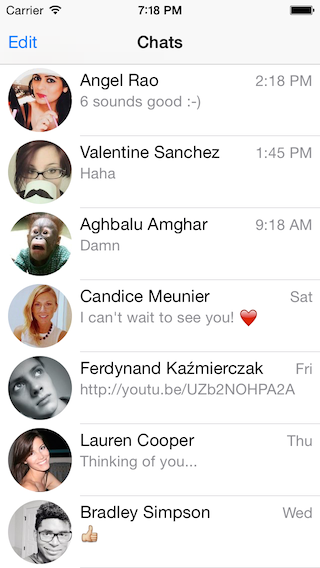
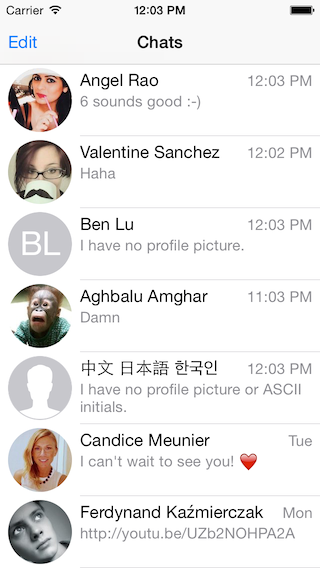
Update to Xcode6-Beta6; fix initials & blank pic

diff --git a/Chats/Chats/ChatsViewController.swift b/Chats/Chats/ChatsViewController.swift
@@ -3,7 +3,7 @@ import UIKit
 class ChatsViewController: UITableViewController {
     var chats: [Chat] { return account.chats }
 
-    convenience init() {
+    convenience override init() {
         self.init(style: .Plain)
         title = "Chats"
     }
@@ -13,28 +13,28 @@ class ChatsViewController: UITableViewController {
 
         let minute: NSTimeInterval = 60, hour = minute * 60, day = hour * 24
         account.chats = [
-            Chat(user: User(ID: 2, name: "Angel Rao"), lastMessageText: "6 sounds good :-)", lastMessageSentDate: NSDate()),
-            Chat(user: User(ID: 3, name: "Valentine Sanchez"), lastMessageText: "Haha", lastMessageSentDate: NSDate(timeIntervalSinceNow: -minute)),
-            Chat(user: User(ID: 23, name: "Ben Lu"), lastMessageText: "I have no profile picture.", lastMessageSentDate: NSDate()),
-            Chat(user: User(ID: 4, name: "Aghbalu Amghar"), lastMessageText: "Damn", lastMessageSentDate: NSDate(timeIntervalSinceNow: -hour*13)),
-            Chat(user: User(ID: 22, name: "中文 日本語 한국인"), lastMessageText: "I have no profile picture or ASCII initials.", lastMessageSentDate: NSDate()),
-            Chat(user: User(ID: 5, name: "Candice Meunier"), lastMessageText: "I can't wait to see you! ❤", lastMessageSentDate: NSDate(timeIntervalSinceNow: -hour*34)),
-            Chat(user: User(ID: 6, name: "Ferdynand Kaźmierczak"), lastMessageText: "http://youtu.be/UZb2NOHPA2A", lastMessageSentDate: NSDate(timeIntervalSinceNow: -day*2-1)),
-            Chat(user: User(ID: 7, name: "Lauren Cooper"), lastMessageText: "Thinking of you...", lastMessageSentDate: NSDate(timeIntervalSinceNow: -day*3)),
-            Chat(user: User(ID: 8, name: "Bradley Simpson"), lastMessageText: "👍", lastMessageSentDate: NSDate(timeIntervalSinceNow: -day*4)),
-            Chat(user: User(ID: 9, name: "Clotilde Thomas"), lastMessageText: "Sounds good!", lastMessageSentDate: NSDate(timeIntervalSinceNow: -day*5)),
-            Chat(user: User(ID: 10, name: "Tania Caramitru"), lastMessageText: "Cool. Thanks!", lastMessageSentDate: NSDate(timeIntervalSinceNow: -day*6)),
-            Chat(user: User(ID: 11, name: "Ileana Mazilu"), lastMessageText: "Hey, what are you up to?", lastMessageSentDate: NSDate(timeIntervalSinceNow: -day*7)),
-            Chat(user: User(ID: 12, name: "Asja Zuhrić"), lastMessageText: "Drinks tonight?", lastMessageSentDate: NSDate(timeIntervalSinceNow: -day*8)),
-            Chat(user: User(ID: 13, name: "Sarah Lam"), lastMessageText: "Are you going to Blues on the Green tonight?", lastMessageSentDate: NSDate(timeIntervalSinceNow: -day*9)),
-            Chat(user: User(ID: 14, name: "Ishan Sarin"), lastMessageText: "Thanks for open sourcing Chats.", lastMessageSentDate: NSDate(timeIntervalSinceNow: -day*10)),
-            Chat(user: User(ID: 15, name: "Stella Vosper"), lastMessageText: "Those who dance are considered insane by those who can't hear the music.", lastMessageSentDate: NSDate(timeIntervalSinceNow: -day*11)),
-            Chat(user: User(ID: 16, name: "Georgeta Mihăileanu"), lastMessageText: "Hey, what are you up to?", lastMessageSentDate: NSDate(timeIntervalSinceNow: -day*11)),
-            Chat(user: User(ID: 17, name: "Alice Adams"), lastMessageText: "Hey, want to hang out tonight?", lastMessageSentDate: NSDate(timeIntervalSinceNow: -day*11)),
-            Chat(user: User(ID: 18, name: "Gerard Gómez"), lastMessageText: "Haha. Hell yeah! No problem, bro!", lastMessageSentDate: NSDate(timeIntervalSinceNow: -day*11)),
-            Chat(user: User(ID: 19, name: "Melinda Osváth"), lastMessageText: "I am excellent!!! I was thinking recently that you are a very inspirational person.", lastMessageSentDate: NSDate(timeIntervalSinceNow: -day*11)),
-            Chat(user: User(ID: 20, name: "Saanvi Sarin"), lastMessageText: "See you soon!", lastMessageSentDate: NSDate(timeIntervalSinceNow: -day*11)),
-            Chat(user: User(ID: 21, name: "Jade Roger"), lastMessageText: "😊", lastMessageSentDate: NSDate(timeIntervalSinceNow: -day*11))
+            Chat(user: User(ID: 2, firstName: "Angel", lastName: "Rao"), lastMessageText: "6 sounds good :-)", lastMessageSentDate: NSDate()),
+            Chat(user: User(ID: 3, firstName: "Valentine", lastName: "Sanchez"), lastMessageText: "Haha", lastMessageSentDate: NSDate(timeIntervalSinceNow: -minute)),
+            Chat(user: User(ID: 23, firstName: "Ben", lastName: "Lu"), lastMessageText: "I have no profile picture.", lastMessageSentDate: NSDate()),
+            Chat(user: User(ID: 4, firstName: "Aghbalu", lastName: "Amghar"), lastMessageText: "Damn", lastMessageSentDate: NSDate(timeIntervalSinceNow: -hour*13)),
+            Chat(user: User(ID: 22, firstName: "中文 日本語", lastName: "한국인"), lastMessageText: "I have no profile picture or extended ASCII initials.", lastMessageSentDate: NSDate()),
+            Chat(user: User(ID: 5, firstName: "Candice", lastName: "Meunier"), lastMessageText: "I can't wait to see you! ❤", lastMessageSentDate: NSDate(timeIntervalSinceNow: -hour*34)),
+            Chat(user: User(ID: 6, firstName: "Ferdynand", lastName: "Kaźmierczak"), lastMessageText: "http://youtu.be/UZb2NOHPA2A", lastMessageSentDate: NSDate(timeIntervalSinceNow: -day*2-1)),
+            Chat(user: User(ID: 7, firstName: "Lauren", lastName: "Cooper"), lastMessageText: "Thinking of you...", lastMessageSentDate: NSDate(timeIntervalSinceNow: -day*3)),
+            Chat(user: User(ID: 8, firstName: "Bradley", lastName: "Simpson"), lastMessageText: "👍", lastMessageSentDate: NSDate(timeIntervalSinceNow: -day*4)),
+            Chat(user: User(ID: 9, firstName: "Clotilde", lastName: "Thomas"), lastMessageText: "Sounds good!", lastMessageSentDate: NSDate(timeIntervalSinceNow: -day*5)),
+            Chat(user: User(ID: 10, firstName: "Tania", lastName: "Caramitru"), lastMessageText: "Cool. Thanks!", lastMessageSentDate: NSDate(timeIntervalSinceNow: -day*6)),
+            Chat(user: User(ID: 11, firstName: "Ileana", lastName: "Mazilu"), lastMessageText: "Hey, what are you up to?", lastMessageSentDate: NSDate(timeIntervalSinceNow: -day*7)),
+            Chat(user: User(ID: 12, firstName: "Asja", lastName: "Zuhrić"), lastMessageText: "Drinks tonight?", lastMessageSentDate: NSDate(timeIntervalSinceNow: -day*8)),
+            Chat(user: User(ID: 13, firstName: "Sarah", lastName: "Lam"), lastMessageText: "Are you going to Blues on the Green tonight?", lastMessageSentDate: NSDate(timeIntervalSinceNow: -day*9)),
+            Chat(user: User(ID: 14, firstName: "Ishan", lastName: "Sarin"), lastMessageText: "Thanks for open sourcing Chats.", lastMessageSentDate: NSDate(timeIntervalSinceNow: -day*10)),
+            Chat(user: User(ID: 15, firstName: "Stella", lastName: "Vosper"), lastMessageText: "Those who dance are considered insane by those who can't hear the music.", lastMessageSentDate: NSDate(timeIntervalSinceNow: -day*11)),
+            Chat(user: User(ID: 16, firstName: "Georgeta", lastName: "Mihăileanu"), lastMessageText: "Hey, what are you up to?", lastMessageSentDate: NSDate(timeIntervalSinceNow: -day*11)),
+            Chat(user: User(ID: 17, firstName: "Alice", lastName: "Adams"), lastMessageText: "Hey, want to hang out tonight?", lastMessageSentDate: NSDate(timeIntervalSinceNow: -day*11)),
+            Chat(user: User(ID: 18, firstName: "Gerard", lastName: "Gómez"), lastMessageText: "Haha. Hell yeah! No problem, bro!", lastMessageSentDate: NSDate(timeIntervalSinceNow: -day*11)),
+            Chat(user: User(ID: 19, firstName: "Melinda", lastName: "Osváth"), lastMessageText: "I am excellent!!! I was thinking recently that you are a very inspirational person.", lastMessageSentDate: NSDate(timeIntervalSinceNow: -day*11)),
+            Chat(user: User(ID: 20, firstName: "Saanvi", lastName: "Sarin"), lastMessageText: "See you soon!", lastMessageSentDate: NSDate(timeIntervalSinceNow: -day*11)),
+            Chat(user: User(ID: 21, firstName: "Jade", lastName: "Roger"), lastMessageText: "😊", lastMessageSentDate: NSDate(timeIntervalSinceNow: -day*11))
         ]
 
         navigationItem.leftBarButtonItem = editButtonItem() // TODO: KVO

diff --git a/Chats/Chats/ChatViewController.swift b/Chats/Chats/ChatViewController.swift
@@ -16,7 +16,7 @@ class ChatViewController: UIViewController, UITableViewDataSource, UITableViewDe
 
     override var inputAccessoryView: UIView! {
     get {
-        if !toolBar {
+        if toolBar == nil {
             toolBar = UIToolbar(frame: CGRectMake(0, 0, 0, toolBarMinHeight-0.5))
 
             textView = InputTextView(frame: CGRectZero)
@@ -59,6 +59,10 @@ class ChatViewController: UIViewController, UITableViewDataSource, UITableViewDe
         self.chat = chat
         super.init(nibName: nil, bundle: nil)
         title = chat.user.name
+    }
+
+    required init(coder aDecoder: NSCoder) {
+        fatalError("init(coder:) has not been implemented")
     }
 
     override func canBecomeFirstResponder() -> Bool {
@@ -182,21 +186,6 @@ class ChatViewController: UIViewController, UITableViewDataSource, UITableViewDe
         }
     }
 
-    // #iOS7 - not needed for #iOS8
-    func tableView(tableView: UITableView!, heightForRowAtIndexPath indexPath: NSIndexPath!) -> CGFloat {
-        if indexPath.row == 0 {
-            return 31
-        } else {
-            let message = chat.loadedMessages[indexPath.section][indexPath.row-1]
-            let height = (message.text as NSString).boundingRectWithSize(CGSize(width: 218, height: CGFloat.max), options: .UsesLineFragmentOrigin, attributes: [NSFontAttributeName: UIFont.systemFontOfSize(messageFontSize)], context: nil).height
-            #if arch(x86_64) || arch(arm64)
-                return ceil(height) + 24
-            #else
-                return CGFloat(ceilf(height.native) + 24)
-            #endif
-        }
-    }
-
     // Reserve row selection #CopyMessage
     func tableView(tableView: UITableView!, willSelectRowAtIndexPath indexPath: NSIndexPath!) -> NSIndexPath! {
         return nil
@@ -208,7 +197,7 @@ class ChatViewController: UIViewController, UITableViewDataSource, UITableViewDe
     }
 
     func keyboardWillShow(notification: NSNotification) {
-        let userInfo = notification.userInfo
+        let userInfo = notification.userInfo as NSDictionary!
         let frameNew = (userInfo[UIKeyboardFrameEndUserInfoKey] as NSValue).CGRectValue()
         let insetNewBottom = tableView.convertRect(frameNew, fromView: nil).height
         let insetOld = tableView.contentInset
@@ -238,7 +227,7 @@ class ChatViewController: UIViewController, UITableViewDataSource, UITableViewDe
     }
 
     func keyboardDidShow(notification: NSNotification) {
-        let userInfo = notification.userInfo
+        let userInfo = notification.userInfo as NSDictionary!
         let frameNew = (userInfo[UIKeyboardFrameEndUserInfoKey] as NSValue).CGRectValue()
         let insetNewBottom = tableView.convertRect(frameNew, fromView: nil).height
 
@@ -247,7 +236,7 @@ class ChatViewController: UIViewController, UITableViewDataSource, UITableViewDe
         tableView.contentInset.bottom = insetNewBottom
         tableView.scrollIndicatorInsets.bottom = insetNewBottom
         // Prevents jump after keyboard dismissal
-        if (self.tableView.tracking || self.tableView.decelerating) {
+        if self.tableView.tracking || self.tableView.decelerating {
             tableView.contentOffset.y = contentOffsetY
         }
     }
@@ -271,7 +260,7 @@ class ChatViewController: UIViewController, UITableViewDataSource, UITableViewDe
         textView.resignFirstResponder()
         textView.becomeFirstResponder()
 
-        chat.loadedMessages += [Message(incoming: false, text: textView.text, sentDate: NSDate.date())]
+        chat.loadedMessages.append([Message(incoming: false, text: textView.text, sentDate: NSDate.date())])
         textView.text = nil
         updateTextViewHeight()
         sendButton.enabled = false
@@ -301,7 +290,7 @@ class ChatViewController: UIViewController, UITableViewDataSource, UITableViewDe
         let twoTaps = (gestureRecognizer.numberOfTapsRequired == 2)
         let doubleTap = (twoTaps && gestureRecognizer.state == .Ended)
         let longPress = (!twoTaps && gestureRecognizer.state == .Began)
-        if (doubleTap || longPress) {
+        if doubleTap || longPress {
             let pressedIndexPath = tableView.indexPathForRowAtPoint(gestureRecognizer.locationInView(tableView))
             tableView.selectRowAtIndexPath(pressedIndexPath, animated: false, scrollPosition: .None)
 
@@ -335,7 +324,7 @@ func createMessageSoundOutgoing() -> SystemSoundID {
 // Only show "Copy" when editing `textView` #CopyMessage
 class InputTextView: UITextView {
     override func canPerformAction(action: Selector, withSender sender: AnyObject!) -> Bool {
-        if (delegate as ChatViewController).tableView.indexPathForSelectedRow() {
+        if (delegate as ChatViewController).tableView.indexPathForSelectedRow() != nil {
             return action == "messageCopyTextAction:"
         } else {
             return super.canPerformAction(action, withSender: sender)

diff --git a/Chats/Chats/ChatCell.swift b/Chats/Chats/ChatCell.swift
@@ -10,10 +10,10 @@ class ChatCell: UITableViewCell {
     let lastMessageSentDateLabel: UILabel
     let userNameInitialsLabel: UILabel
     
-    init(style: UITableViewCellStyle, reuseIdentifier: String) {
+    override init(style: UITableViewCellStyle, reuseIdentifier: String) {
         let pictureSize: CGFloat = 64
         userPictureImageView = UIImageView(frame: CGRect(x: 8, y: (chatCellHeight-pictureSize)/2, width: pictureSize, height: pictureSize))
-        userPictureImageView.backgroundColor = UIColor(white: 238/255, alpha: 1)
+        userPictureImageView.backgroundColor = UIColor(red: 199/255.0, green: 199/255.0, blue: 204/255.0, alpha: 1)
         userPictureImageView.layer.cornerRadius = pictureSize/2
         userPictureImageView.layer.masksToBounds = true
 
@@ -34,9 +34,9 @@ class ChatCell: UITableViewCell {
         lastMessageSentDateLabel.textColor = lastMessageTextLabel.textColor
 
         userNameInitialsLabel = UILabel(frame: CGRectZero)
-        userNameInitialsLabel.textColor = UIColor(white: 128/255, alpha: 1)
-        userNameInitialsLabel.font = UIFont.systemFontOfSize(22)
+        userNameInitialsLabel.font = UIFont.systemFontOfSize(33)
         userNameInitialsLabel.textAlignment = .Center
+        userNameInitialsLabel.textColor = UIColor.whiteColor()
 
         super.init(style: style, reuseIdentifier: reuseIdentifier)
         contentView.addSubview(userPictureImageView)
@@ -61,39 +61,31 @@ class ChatCell: UITableViewCell {
         contentView.addConstraint(NSLayoutConstraint(item: lastMessageSentDateLabel, attribute: .Baseline, relatedBy: .Equal, toItem: userNameLabel, attribute: .Baseline, multiplier: 1, constant: 0))
         
         userNameInitialsLabel.setTranslatesAutoresizingMaskIntoConstraints(false)
-        userPictureImageView.addConstraint(NSLayoutConstraint(item: userNameInitialsLabel, attribute: .Left, relatedBy: .Equal, toItem: userPictureImageView, attribute: .Left, multiplier: 1, constant: 0))
-        userPictureImageView.addConstraint(NSLayoutConstraint(item: userNameInitialsLabel, attribute: .Right, relatedBy: .Equal, toItem: userPictureImageView, attribute: .Right, multiplier: 1, constant: 0))
-        userPictureImageView.addConstraint(NSLayoutConstraint(item: userNameInitialsLabel, attribute: .Top, relatedBy: .Equal, toItem: userPictureImageView, attribute: .Top, multiplier: 1, constant: 0))
-        userPictureImageView.addConstraint(NSLayoutConstraint(item: userNameInitialsLabel, attribute: .Bottom, relatedBy: .Equal, toItem: userPictureImageView, attribute: .Bottom, multiplier: 1, constant: 0))
+        userPictureImageView.addConstraint(NSLayoutConstraint(item: userNameInitialsLabel, attribute: .CenterX, relatedBy: .Equal, toItem: userPictureImageView, attribute: .CenterX, multiplier: 1, constant: 0))
+        userPictureImageView.addConstraint(NSLayoutConstraint(item: userNameInitialsLabel, attribute: .CenterY, relatedBy: .Equal, toItem: userPictureImageView, attribute: .CenterY, multiplier: 1, constant: -1))
+    }
 
+    required init(coder aDecoder: NSCoder) {
+        fatalError("init(coder:) has not been implemented")
     }
 
     func configureWithChat(chat: Chat) {
-        userPictureImageView.image = UIImage(named: chat.user.pictureName())
-        if !userPictureImageView.image {
-            if chat.user.name.initials.lengthOfBytesUsingEncoding(NSASCIIStringEncoding) == 0 {
-                userPictureImageView.image = UIImage(named: "ProfilePicture")
-                userNameInitialsLabel.hidden = true
-            } else {
-                userNameInitialsLabel.text = chat.user.name.initials
+        let user = chat.user
+        userPictureImageView.image = UIImage(named: user.pictureName())
+        if userPictureImageView.image == nil {
+            let initials = user.initials
+            if initials != nil {
+                userNameInitialsLabel.text = initials
                 userNameInitialsLabel.hidden = false
+            } else {
+                userPictureImageView.image = UIImage(named: "User0")
+                userNameInitialsLabel.hidden = true
             }
         } else {
             userNameInitialsLabel.hidden = true
         }
-        userNameLabel.text = chat.user.name
+        userNameLabel.text = user.name
         lastMessageTextLabel.text = chat.lastMessageText
         lastMessageSentDateLabel.text = chat.lastMessageSentDateString
-    }
-}
-
-extension String {
-    var initials: String {
-        get {
-            return "".join(self.componentsSeparatedByString(" ").map {
-                (component: String) -> String in
-                return component.substringToIndex(advance(component.startIndex, 1))
-            })
-        }
     }
 }

diff --git a/Chats/ChatsTests/ChatsTests.swift b/Chats/ChatsTests/ChatsTests.swift
@@ -1,19 +1,22 @@
 import XCTest
 
 class ChatsTests: XCTestCase {
-    override func setUp() {
-        super.setUp()
-        // Put setup code here. This method is called before the invocation of each test method in the class.
-    }
-
-    override func tearDown() {
-        // Put teardown code here. This method is called after the invocation of each test method in the class.
-        super.tearDown()
-    }
-
     func testExample() {
-        // This is an example of a functional test case.
-        XCTAssert(true, "Pass")
+        XCTAssertNil(User(ID: 1).initials, "")
+
+        let users = [
+            (User(ID: 3, firstName: nil, lastName: "Di Pasquale"), "D"),
+            (User(ID: 1, firstName: "Matt", lastName: nil), "M"),
+            (User(ID: 3, firstName: " ", lastName: "Di Pasquale"), " D"),
+            (User(ID: 1, firstName: "Matt", lastName: " "), "M "),
+            (User(ID: 1, firstName: "Matt", lastName: "Di Pasquale"), "MD"),
+            (User(ID: 3, firstName: "Ë", lastName: "R"), "ËR"),
+            (User(ID: 4, firstName: "Ë", lastName: "中"), "Ë")
+        ]
+
+        for (user, initials) in users {
+            XCTAssertEqual(user.initials!, initials, "")
+        }
     }
 
     func testPerformanceExample() {

diff --git a/Chats/Chats/Chat.swift b/Chats/Chats/Chat.swift
@@ -23,15 +23,9 @@ class Chat {
     func formatDate(date: NSDate) -> String {
         let calendar = NSCalendar.currentCalendar()
 
-        // #iOS7.1
         let last18hours = (-18*60*60 < date.timeIntervalSinceNow)
-        let dateComponents = calendar.components(.EraCalendarUnit | .YearCalendarUnit | .MonthCalendarUnit | .DayCalendarUnit, fromDate: NSDate.date())
-        let isToday = (calendar.dateFromComponents(dateComponents).compare(date) != .OrderedDescending)
-        dateComponents.day -= 7
-        let isLast7Days = (calendar.dateFromComponents(dateComponents).compare(date) == .OrderedAscending)
-//        // #iOS8
-//        let isToday = calendar.isDateInToday(date)
-//        let isLast7Days = (calendar.compareDate(NSDate(timeIntervalSinceNow: -7*24*60*60), toDate: date, toUnitGranularity: .CalendarUnitDay) == NSComparisonResult.OrderedAscending)
+        let isToday = calendar.isDateInToday(date)
+        let isLast7Days = (calendar.compareDate(NSDate(timeIntervalSinceNow: -7*24*60*60), toDate: date, toUnitGranularity: .CalendarUnitDay) == NSComparisonResult.OrderedAscending)
 
         if last18hours || isToday {
             dateFormatter.dateStyle = .NoStyle

diff --git a/Chats/Chats/User.swift b/Chats/Chats/User.swift
@@ -1,10 +1,39 @@
+import Foundation
+
 class User {
     let ID: Int
-    var name: String
+    var firstName: String?
+    var lastName: String?
+    var name: String? {
+    if firstName != nil && lastName != nil {
+        return firstName! + " " + lastName!
+    } else if firstName != nil {
+        return firstName
+    } else {
+        return lastName
+    }
+    }
+    var initials: String? {
+    var initials: String?
+        for name in [firstName, lastName] {
+            if let definiteName = name {
+                var initial = definiteName.substringToIndex(advance(definiteName.startIndex, 1))
+                if initial.lengthOfBytesUsingEncoding(NSNEXTSTEPStringEncoding) > 0 {
+                    initials = (initials == nil ? initial : initials! + initial)
+                }
+            }
+        }
+        return initials
+    }
 
-    init(ID: Int, name: String) {
+    init(ID: Int) {
         self.ID = ID
-        self.name = name
+    }
+
+    convenience init(ID: Int, firstName: String?, lastName: String?) {
+        self.init(ID: ID)
+        self.firstName = firstName
+        self.lastName = lastName
     }
 
     func pictureName() -> String {

diff --git a/Chats/Chats/MessageBubbleCell.swift b/Chats/Chats/MessageBubbleCell.swift
@@ -7,7 +7,7 @@ class MessageBubbleCell: UITableViewCell {
     let bubbleImageView: UIImageView
     let messageLabel: UILabel
 
-    init(style: UITableViewCellStyle, reuseIdentifier: String) {
+    override init(style: UITableViewCellStyle, reuseIdentifier: String) {
         bubbleImageView = UIImageView(image: bubbleImage.incoming, highlightedImage: bubbleImage.incomingHighlighed)
         bubbleImageView.tag = bubbleTag
         bubbleImageView.userInteractionEnabled = true // #CopyMesage
@@ -34,6 +34,10 @@ class MessageBubbleCell: UITableViewCell {
         bubbleImageView.addConstraint(NSLayoutConstraint(item: messageLabel, attribute: .CenterY, relatedBy: .Equal, toItem: bubbleImageView, attribute: .CenterY, multiplier: 1, constant: -0.5))
         messageLabel.preferredMaxLayoutWidth = 218
         bubbleImageView.addConstraint(NSLayoutConstraint(item: messageLabel, attribute: .Height, relatedBy: .Equal, toItem: bubbleImageView, attribute: .Height, multiplier: 1, constant: -15))
+    }
+
+    required init(coder aDecoder: NSCoder) {
+        fatalError("init(coder:) has not been implemented")
     }
 
     func configureWithMessage(message: Message) {

diff --git a/Chats/Chats/MessageSentDateCell.swift b/Chats/Chats/MessageSentDateCell.swift
@@ -3,7 +3,7 @@ import UIKit
 class MessageSentDateCell: UITableViewCell {
     let sentDateLabel: UILabel
 
-    init(style: UITableViewCellStyle, reuseIdentifier: String) {
+    override init(style: UITableViewCellStyle, reuseIdentifier: String) {
         sentDateLabel = UILabel(frame: CGRectZero)
         sentDateLabel.backgroundColor = UIColor.clearColor()
         sentDateLabel.font = UIFont.systemFontOfSize(11)
@@ -19,5 +19,9 @@ class MessageSentDateCell: UITableViewCell {
         contentView.addConstraint(NSLayoutConstraint(item: sentDateLabel, attribute: .CenterX, relatedBy: .Equal, toItem: contentView, attribute: .CenterX, multiplier: 1, constant: 0))
         contentView.addConstraint(NSLayoutConstraint(item: sentDateLabel, attribute: .Top, relatedBy: .Equal, toItem: contentView, attribute: .Top, multiplier: 1, constant: 13))
         contentView.addConstraint(NSLayoutConstraint(item: sentDateLabel, attribute: .Bottom, relatedBy: .Equal, toItem: contentView, attribute: .Bottom, multiplier: 1, constant: -4.5))
+    }
+
+    required init(coder aDecoder: NSCoder) {
+        fatalError("init(coder:) has not been implemented")
     }
 }

diff --git a/Chats/Chats/AppDelegate.swift b/Chats/Chats/AppDelegate.swift
@@ -1,6 +1,6 @@
 import UIKit
 
-var account = Account(user: User(ID: 1, name: "Matt Di Pasquale"))
+var account = Account(user: User(ID: 1, firstName: "Matt", lastName: "Di Pasquale"))
 
 @UIApplicationMain
 class AppDelegate: UIResponder, UIApplicationDelegate {

diff --git a/TODO.md b/TODO.md
@@ -5,6 +5,7 @@
 
 ## ChatsViewController
 
+* Is there a better way than lengthOfBytesUsingEncoding to check if string is ASCII?
 * Add search bar
 * Edit, done, sentDateLabel.x #bug
 * Use KVO to set edit button enabled
